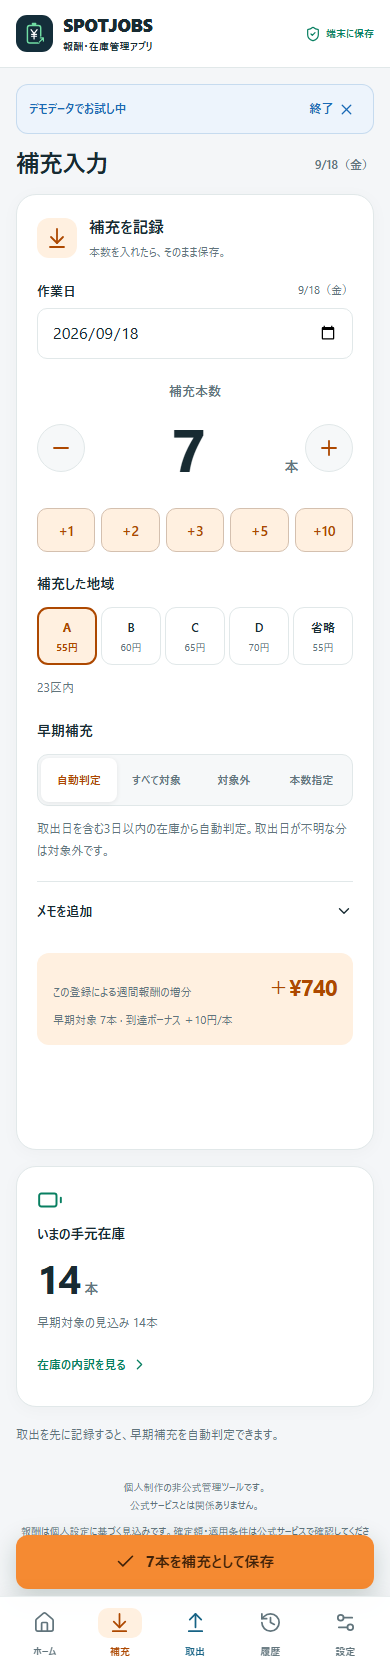
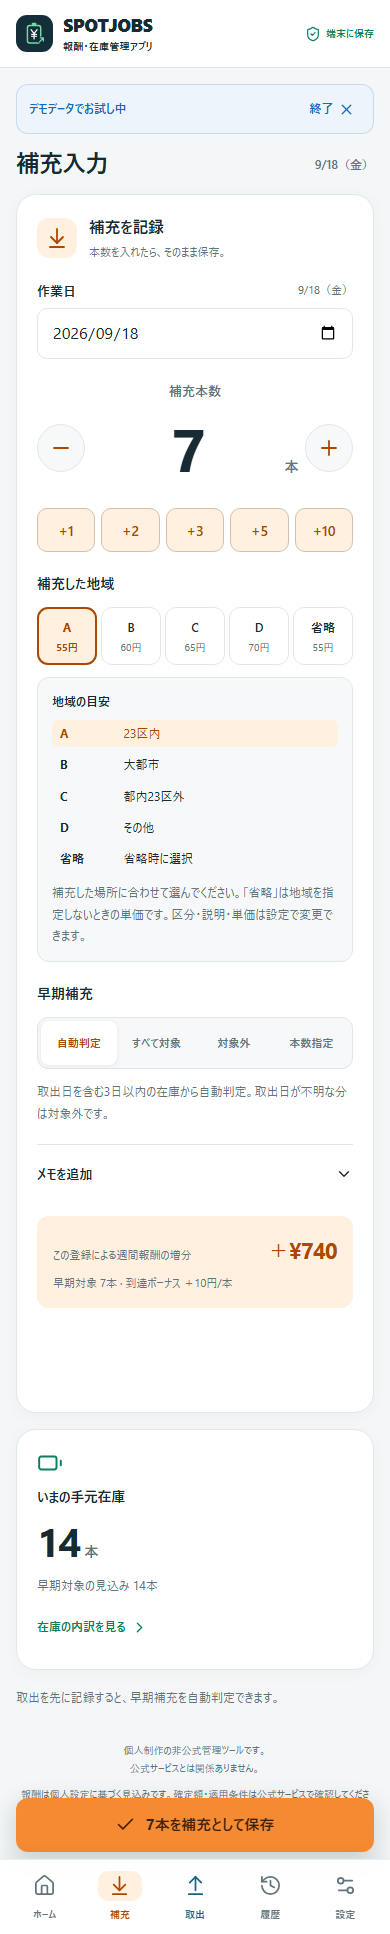
Explain replenishment regions beside the area selector

diff --git a/src/components/record-form.tsx b/src/components/record-form.tsx
@@ -1,6 +1,6 @@
 'use client';
 
-import { useEffect, useMemo, useRef, useState, type FormEvent } from 'react';
+import { useEffect, useId, useMemo, useRef, useState, type FormEvent } from 'react';
 import { ArrowDownToLine, ArrowUpFromLine, Check, ChevronDown, Minus, Plus, ScanLine } from 'lucide-react';
 import { calculate, createRewardSnapshot, isValidDate, type WorkRecord } from '@/lib/core';
 import type { AppData } from '@/lib/storage';
@@ -8,6 +8,7 @@ import { AREAS, dateLabel, money, newRecordId, Sheet, typeLabel } from './ui';
 
 interface Props { data: AppData; today: string; type: WorkRecord['type']; record?: WorkRecord; onSave: (record: WorkRecord) => Promise<boolean>; }
 export default function RecordForm({ data, today, type, record, onSave }: Props) {
+  const areaGuideId = useId();
   const [quantity, setQuantity] = useState(String(record?.quantity ?? (type === 'adjustment' ? '' : 1)));
   const [date, setDate] = useState(record?.date ?? today);
   const [area, setArea] = useState(record?.area ?? data.lastArea ?? data.settings.defaultArea);
@@ -61,7 +62,17 @@ export default function RecordForm({ data, today, type, record, onSave }: Props)
     <div className="quantity-stepper"><button type="button" className="step-button" aria-label="本数を1減らす" disabled={!count || count <= (type === 'adjustment' ? 0 : 1)} onClick={() => setQuantity(String(Math.max(type === 'adjustment' ? 0 : 1, count - 1)))}><Minus/></button><div><input id="record-quantity" type="text" inputMode="numeric" pattern="[0-9]*" autoComplete="off" maxLength={5} value={quantity} onFocus={e => e.target.select()} onChange={e => setQuantity(e.target.value.replace(/[^0-9]/g, ''))} required aria-label="本数"/><span>本</span></div><button type="button" className="step-button" aria-label="本数を1増やす" disabled={count >= 99999} onClick={() => setQuantity(String(Math.min(99999, count + 1)))}><Plus/></button></div>
     <div className="quick-amounts" aria-label="本数を加算">{[1, 2, 3, 5, 10].map(n => <button type="button" key={n} onClick={() => setQuantity(String(Math.min(99999, count + n)))}>+{n}</button>)}</div>
     {type === 'refill' && <>
-      <fieldset className="area-field"><legend>補充した地域</legend><div className="area-options">{AREAS.map(id => <button key={id} type="button" aria-pressed={area === id} className={area === id ? 'selected' : ''} onClick={() => setArea(id)}><strong>{data.settings.regionNames[id]}</strong><span>{data.settings.regionRates[id]}円</span></button>)}</div><p className="field-hint">{data.settings.regionDescriptions[area]}</p></fieldset>
+      <fieldset className="area-field">
+        <legend>補充した地域</legend>
+        <div className="area-options">{AREAS.map(id => <button key={id} type="button" aria-pressed={area === id} aria-describedby={`${areaGuideId}-${id}`} className={area === id ? 'selected' : ''} onClick={() => setArea(id)}><strong>{data.settings.regionNames[id]}</strong><span>{data.settings.regionRates[id]}円</span></button>)}</div>
+        <div className="area-guide">
+          <p className="area-guide-title">地域の目安</p>
+          <dl aria-label="地域ごとの説明">{AREAS.map(id => <div key={id} className={area === id ? 'selected' : ''}>
+            <dt>{data.settings.regionNames[id]}</dt><dd id={`${areaGuideId}-${id}`}>{data.settings.regionDescriptions[id]}</dd>
+          </div>)}</dl>
+          <p className="field-hint">補充した場所に合わせて選んでください。「{data.settings.regionNames.omitted}」は地域を指定しないときの単価です。区分・説明・単価は設定で変更できます。</p>
+        </div>
+      </fieldset>
       <fieldset className="early-field"><legend>早期補充</legend><div className="segmented early-options">{[['auto', '自動判定'], ['all', 'すべて対象'], ['none', '対象外'], ['count', '本数指定']].map(([id, label]) => <button key={id} type="button" aria-pressed={early === id} className={early === id ? 'selected' : ''} onClick={() => setEarly(id)}>{label}</button>)}</div>{early === 'count' && <label className="field">早期対象の本数<input type="number" inputMode="numeric" min="0" max={count} step="1" value={manual} onChange={e => setManual(e.target.value)}/></label>}<p className="field-hint">{early === 'auto' ? `取出日を含む${snapshot.earlyDays}日以内の在庫から自動判定。取出日が不明な分は対象外です。` : `公式の作業条件を確認し、対象本数を指定します。＋${snapshot.earlyRate}円/本。`}</p></fieldset>
     </>}
     {type === 'adjustment' && <div className="stocktake-preview"><div><span>記録上の在庫</span><strong>{valid ? money(count - (own?.discrepancy ?? 0)) : '—'} 本</strong></div><div><span>棚卸差異</span><strong className={own?.discrepancy ? 'warning-text' : ''}>{valid ? `${(own?.discrepancy ?? 0) > 0 ? '+' : ''}${own?.discrepancy ?? 0}` : '—'} 本</strong></div><label className="check-field"><input type="checkbox" checked={applyStock} onChange={e => setApplyStock(e.target.checked)}/>棚卸数を在庫に反映する</label><p className="field-hint">オフなら確認記録だけを保存します。在庫への反映は次の確認画面で確定します。</p></div>}

diff --git a/src/app/globals.css b/src/app/globals.css
@@ -262,6 +262,14 @@ progress::-moz-progress-bar { background: var(--green); border-radius: 20px; }
 .area-options button span { color: var(--muted); font-size: .6875rem; }
 .area-options button.selected { color: var(--green); background: var(--green-soft); border: 2px solid var(--green); padding: calc(.65rem - 1px) calc(.3rem - 1px); }
 .area-options button.selected strong, .area-options button.selected span { color: var(--green); font-weight: 700; }
+.area-guide { margin-top: .75rem; padding: .875rem; border: 1px solid var(--line); border-radius: 12px; background: var(--surface-subtle); }
+.area-guide-title { margin-bottom: .5rem; font-size: .75rem; font-weight: 650; }
+.area-guide dl { display: grid; gap: .25rem; }
+.area-guide dl > div { display: grid; grid-template-columns: minmax(2.5rem, 1fr) minmax(0, 4fr); gap: .75rem; padding: .25rem .5rem; border-radius: 6px; font-size: .75rem; line-height: 1.6; }
+.area-guide dt { font-weight: 650; overflow-wrap: anywhere; }
+.area-guide dd { margin: 0; overflow-wrap: anywhere; }
+.area-guide .selected { color: var(--refill); background: var(--refill-soft); }
+.area-guide .field-hint { margin-top: .625rem; }
 .segmented { display: grid; grid-template-columns: repeat(4, minmax(0, 1fr)); background: var(--surface-subtle); border-radius: 11px; border: 1px solid var(--line); padding: 3px; gap: 2px; }
 .segmented button { min-height: 44px; padding: .5rem .15rem; border-radius: 8px; font-size: .6875rem; font-weight: 600; white-space: nowrap; color: var(--muted); }
 .segmented button.selected { color: var(--green); background: var(--surface); box-shadow: 0 1px 5px rgb(0 0 0 / 8%); }

diff --git a/docs/publish-copy.md b/docs/publish-copy.md
@@ -41,7 +41,7 @@ SPOTJOBSワーカー向けの非公式Webアプリ。補充・取出を手早く
 実際にSPOTJOBSの活動をスプレッドシートで管理する中で、移動中の入力や「あと何本補充すれば目標に届くか」の確認をもっと簡単にしたいと考え、Webアプリを制作しました。補充・取出の大きな数字入力を中心に、早期補充の自動・手動判定、週次・地域別集計、棚卸差異、追加本数による報酬シミュレーションを実装。記録時の単価と週の条件を保存し、設定変更で過去の報酬が変わらないようにしています。データはIndexedDBに保存し、ログイン不要で利用可能。JSON復元とCSV取込には内容確認を設け、入力ミスや端末変更にも対応しました。Next.js・React・TypeScriptで構築し、初回読み込み後はオフラインでも使えるPWAです。
 
 主な機能：
-・補充／取出の大きな数字入力、増減、+1／+2／+3／+5／+10ボタン
+・補充／取出の大きな数字入力、増減、+1／+2／+3／+5／+10ボタン、補充地域ごとの説明
 ・基本報酬、早期補充、週間本数ボーナスの内訳
 ・次のボーナスと週間目標までの追加本数
 ・週次・日別・地域別の集計

diff --git a/docs/verification.md b/docs/verification.md
@@ -15,6 +15,12 @@
 - 更新後もlint・typecheck・99件の単体テスト・buildが成功。静的ビルドのE2Eは14件成功、既知のWebKit制約による1件のみスキップです。
 - 390×844と1440×1000、Light / Darkで入力・履歴など24画面を確認し、横はみ出し・コンソールエラーはありませんでした。
 
+## 補充地域の説明を追加（2026年9月18日）
+
+地域ボタンの下にA/B/C/D/省略の説明一覧を常時表示し、選択中の地域を強調しました。設定の地域名・説明をそのまま使い、各ボタンを読み上げる際にも説明を参照できます。省略時の扱いと、設定から編集できることも明記しています。
+
+320px・390px・1440pxのLight / Darkで、初期表示、説明変更の反映、500文字の説明の折り返しを確認しました。横はみ出し・ブラウザエラーはなく、lint・型検査・99件の単体テスト・buildも成功しています。補充画面の本番スクリーンショットを更新しています。最新の撮影条件と寸法は[capture.json](screenshots/capture.json)に記録しています。
+
 ## 実装結果
 
 | 項目 | 実装・確認内容 |

diff --git a/README.md b/README.md
@@ -25,7 +25,7 @@
 | 機能 | できること |
 | --- | --- |
 | ホーム | 週間報酬の内訳、補充・取出本数、現在庫、目標、次のボーナスを確認 |
-| 補充入力 | 大きな数字入力、増減ボタン、+1・+2・+3・+5・+10、地域、早期対象、メモ |
+| 補充入力 | 大きな数字入力、増減ボタン、+1・+2・+3・+5・+10、地域選択と地域ごとの説明、早期対象、メモ |
 | 取出入力 | 日付と本数を記録し、在庫と早期判定に反映 |
 | 履歴 | 日付・地域・作業種類で絞り込み、編集・削除、直前の変更を取り消し |
 | 週次報酬 | 基本・早期・本数ボーナスの内訳、日別実績、日別・地域別の補充集計 |
